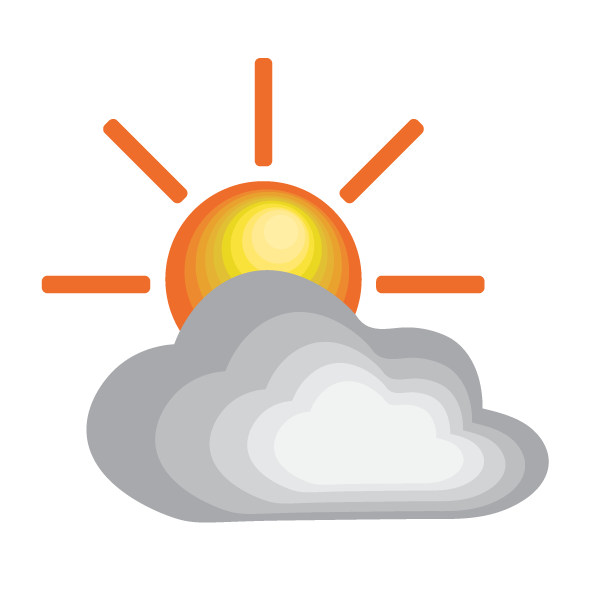
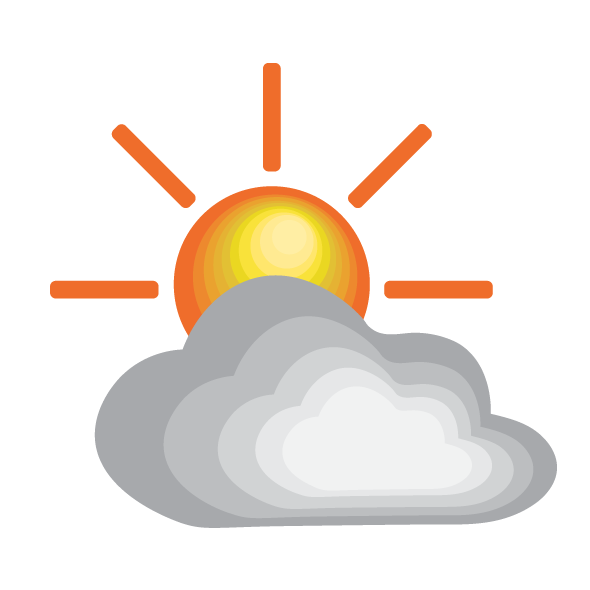
imported new weather images and made changes to HTML, JS & CSS

diff --git a/src/script.js b/src/script.js
@@ -101,36 +101,92 @@ function showTemperature(response) {
   changeImage();
 
   function changeImage() {
-    if (tempDes === `Scattered Clouds` || tempDes === `Broken Clouds`) {
+    if (tempDes === `scattered clouds` || tempDes === `broken clouds`) {
       let img = document.querySelector("#main-image");
-      img.src = "images/cloudy.png";
+      img.src = "images/scattered-clouds.png";
       let quote = document.querySelector("#quote");
       quote.innerHTML = `Cloudy skies, with no chance of meatballs.`;
-    } else if (tempDes === `Shower Rain` || tempDes === `Rain`) {
+    } else if (
+      tempDes === `shower rain` ||
+      tempDes === `rain` ||
+      tempDes === `light rain` ||
+      tempDes === `moderate rain` ||
+      tempDes === `heavy intensity rain` ||
+      tempDes === `very heavy rain` ||
+      tempDes === `extreme rain` ||
+      tempDes === `light intensity shower rain` ||
+      tempDes === `heavy intensity shower rain` ||
+      tempDes === `ragged shower rain`
+    ) {
       let img = document.querySelector("#main-image");
       img.src = "images/rain.png";
       let quote = document.querySelector("#quote");
       quote.innerHTML = `Rain rain go away, come again another day.`;
-    } else if (tempDes === `Clear Sky`) {
+    } else if (tempDes === `clear sky`) {
       let img = document.querySelector("#main-image");
-      img.src = "images/Sunny.png";
+      img.src = "images/clear-day.png";
       let quote = document.querySelector("#quote");
       quote.innerHTML = `Clear skies, sounds like my kind of day.`;
-    } else if (tempDes === `Thunderstorm`) {
+    } else if (
+      tempDes === `thunderstorm` ||
+      tempDes === `thunderstorm with light rain` ||
+      tempDes === `thunderstorm with rain` ||
+      tempDes === `thunderstorm with heavy rain` ||
+      tempDes === `light thunderstorm` ||
+      tempDes === `heavy thunderstorm` ||
+      tempDes === `ragged thunderstorm` ||
+      tempDes === `thunderstorm with light drizzle` ||
+      tempDes === `thunderstorm with drizzle` ||
+      tempDes === `thunderstorm with heavy drizzle`
+    ) {
       let img = document.querySelector("#main-image");
-      img.src = "images/Thunderstorm.png";
+      img.src = "images/thunderstorms.png";
       let quote = document.querySelector("#quote");
       quote.innerHTML = `Perhaps Netflix & chill on todays agenda.`;
-    } else if (tempDes === `Mist`) {
+    } else if (
+      tempDes === `mist` ||
+      tempDes === `smoke` ||
+      tempDes === `haze` ||
+      tempDes === `sand/ dust whirls` ||
+      tempDes === `fog` ||
+      tempDes === `dust` ||
+      tempDes === `volcanic ash` ||
+      tempDes === `squalls` ||
+      tempDes === `tornado` ||
+      tempDes === `sand`
+    ) {
       let img = document.querySelector("#main-image");
-      img.src = "images/cloudy.png";
+      img.src = "images/atmosphere.png";
       let quote = document.querySelector("#quote");
       quote.innerHTML = `Low visibilty - be safe.`;
-    } else if (tempDes === `Few Clouds`) {
+    } else if (tempDes === `few clouds`) {
       let img = document.querySelector("#main-image");
       img.src = "images/partly-cloudy.png";
       let quote = document.querySelector("#quote");
       quote.innerHTML = `Let the Sun out`;
+    } else if (tempDes === `overcast clouds`) {
+      let img = document.querySelector("#main-image");
+      img.src = "images/clouds.png";
+      let quote = document.querySelector("#quote");
+      quote.innerHTML = `Let the Sun out`;
+    } else if (
+      tempDes === `light snow` ||
+      tempDes === `snow` ||
+      tempDes === `heavy snow` ||
+      tempDes === `sleet` ||
+      tempDes === `light shower sleet` ||
+      tempDes === `shower sleet` ||
+      tempDes === `light rain and snow` ||
+      tempDes === `rain and snow` ||
+      tempDes === `light shower snow` ||
+      tempDes === `shower snow` ||
+      tempDes === `heavy shower snow` ||
+      tempDes === `freezing rain`
+    ) {
+      let img = document.querySelector("#main-image");
+      img.src = "images/snow.png";
+      let quote = document.querySelector("#quote");
+      quote.innerHTML = `Low visibilty - take care.`;
     }
   }
 }

diff --git a/index.html b/index.html
@@ -72,7 +72,7 @@
         <ul class="forecast-main">
           <li class="forecast-1">
             <span class="day-m" id="tomorrow">M</span>
-            <img src="images/Sunny.png" width="70" alt="Sunshine" />
+            <img src="images/clear-day.png" width="70" alt="Sunshine" />
             <ul class="forecast">
               <li class="temperature-high">15°C</li>
               <li class="temperature-low">4°C</li>
@@ -100,7 +100,11 @@
           </li>
           <li class="forecast-4">
             <span class="day-th" id="fifth-day">Th</span>
-            <img src="images/Thunderstorm.png" width="70" alt="Thunderstorms" />
+            <img
+              src="images/thunderstorms.png"
+              width="70"
+              alt="Thunderstorms"
+            />
             <ul class="forecast">
               <li class="temperature-high">14°C</li>
               <li class="temperature-low">9°C</li>
@@ -108,7 +112,7 @@
           </li>
           <li class="forecast-5">
             <span class="day-f" id="sixth-day">F</span>
-            <img src="images/cloudy.png" width="70" alt="Cloudy" />
+            <img src="images/clouds.png" width="70" alt="Cloudy" />
             <ul class="forecast">
               <li class="temperature-high">13°C</li>
               <li class="temperature-low">8°C</li>

diff --git a/src/styles.css b/src/styles.css
@@ -89,7 +89,7 @@ h1 {
   font-size: 35px;
   text-transform: capitalize;
   color: #10828c;
-  margin: 20px 0px 10px 0px;
+  margin: 15px 0px 10px 0px;
 }
 
 .day {
